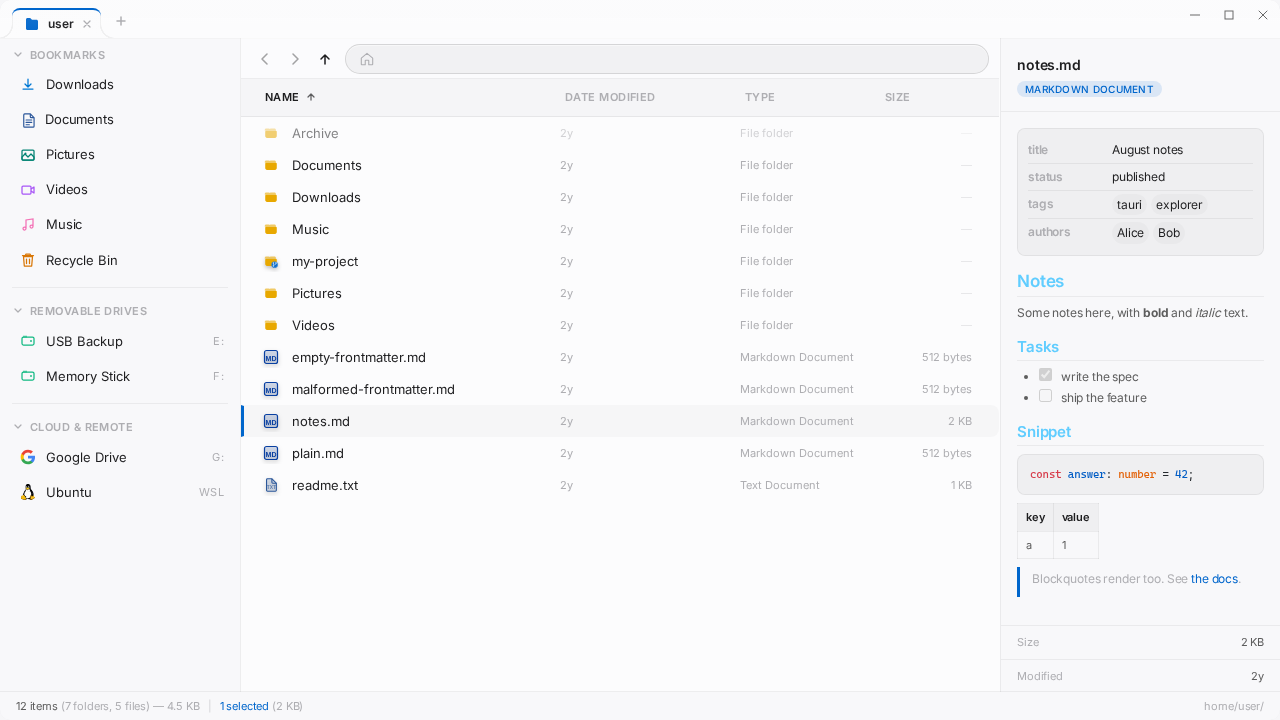
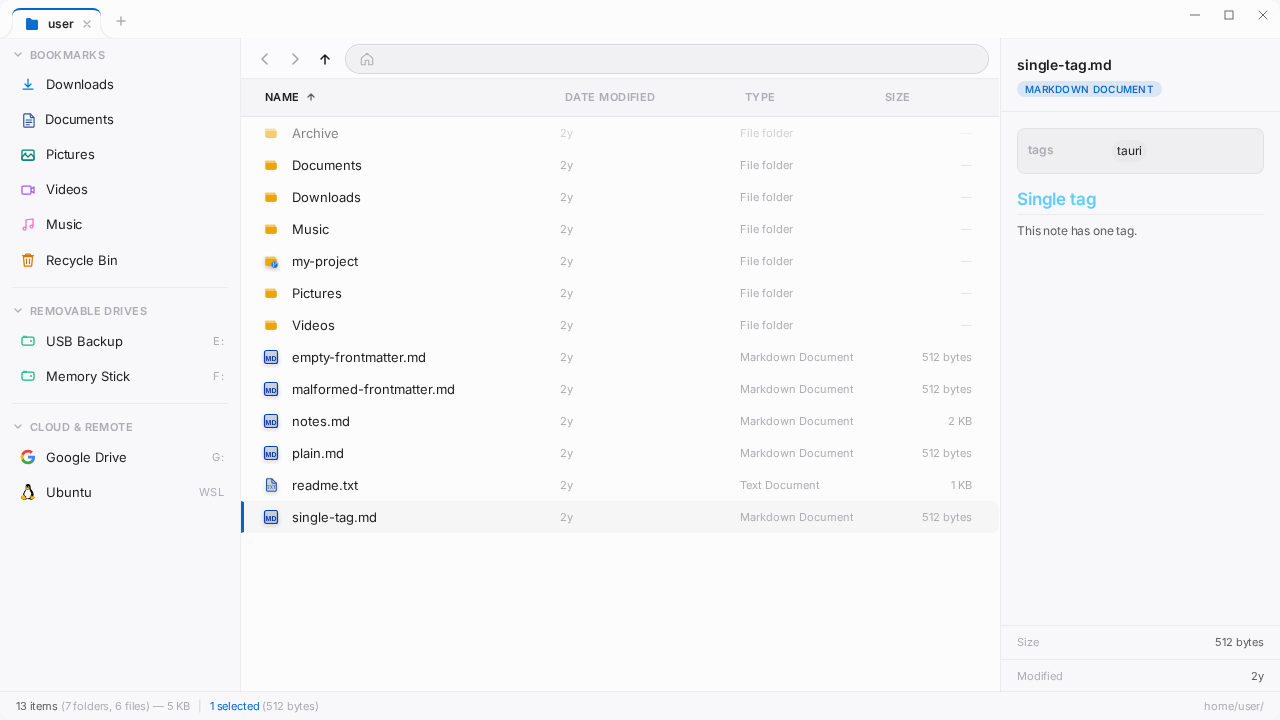
chore: refresh singleton array acceptance evidence

diff --git a/src/lib/api/mock-invoke.ts b/src/lib/api/mock-invoke.ts
@@ -76,6 +76,7 @@ const mockFiles: Record<string, FileEntry[]> = {
     dir(".config", "/home/user/.config", false),
     file("readme.txt", "/home/user/readme.txt", 1024),
     file("notes.md", "/home/user/notes.md", 2048),
+    file("single-tag.md", "/home/user/single-tag.md", 512),
     file("plain.md", "/home/user/plain.md", 512),
     file("empty-frontmatter.md", "/home/user/empty-frontmatter.md", 512),
     file("malformed-frontmatter.md", "/home/user/malformed-frontmatter.md", 512),
@@ -1235,6 +1236,7 @@ const mockFileContent: Record<string, string> = {
     "> Blockquotes render too. See [the docs](https://example.com).",
     "",
   ].join("\n"),
+  "/home/user/single-tag.md": "---\ntags: [tauri]\n---\n\n# Single tag\n\nThis note has one tag.\n",
   "/home/user/plain.md": "# Plain notes\n\nThis document has no properties.\n",
   "/home/user/empty-frontmatter.md": "---\n---\n\n# Empty metadata\n\nThis document has no properties.\n",
   "/home/user/malformed-frontmatter.md": "---\ntitle: [unterminated\n---\n\n# Recoverable body\n\nThis document has no properties.\n",
